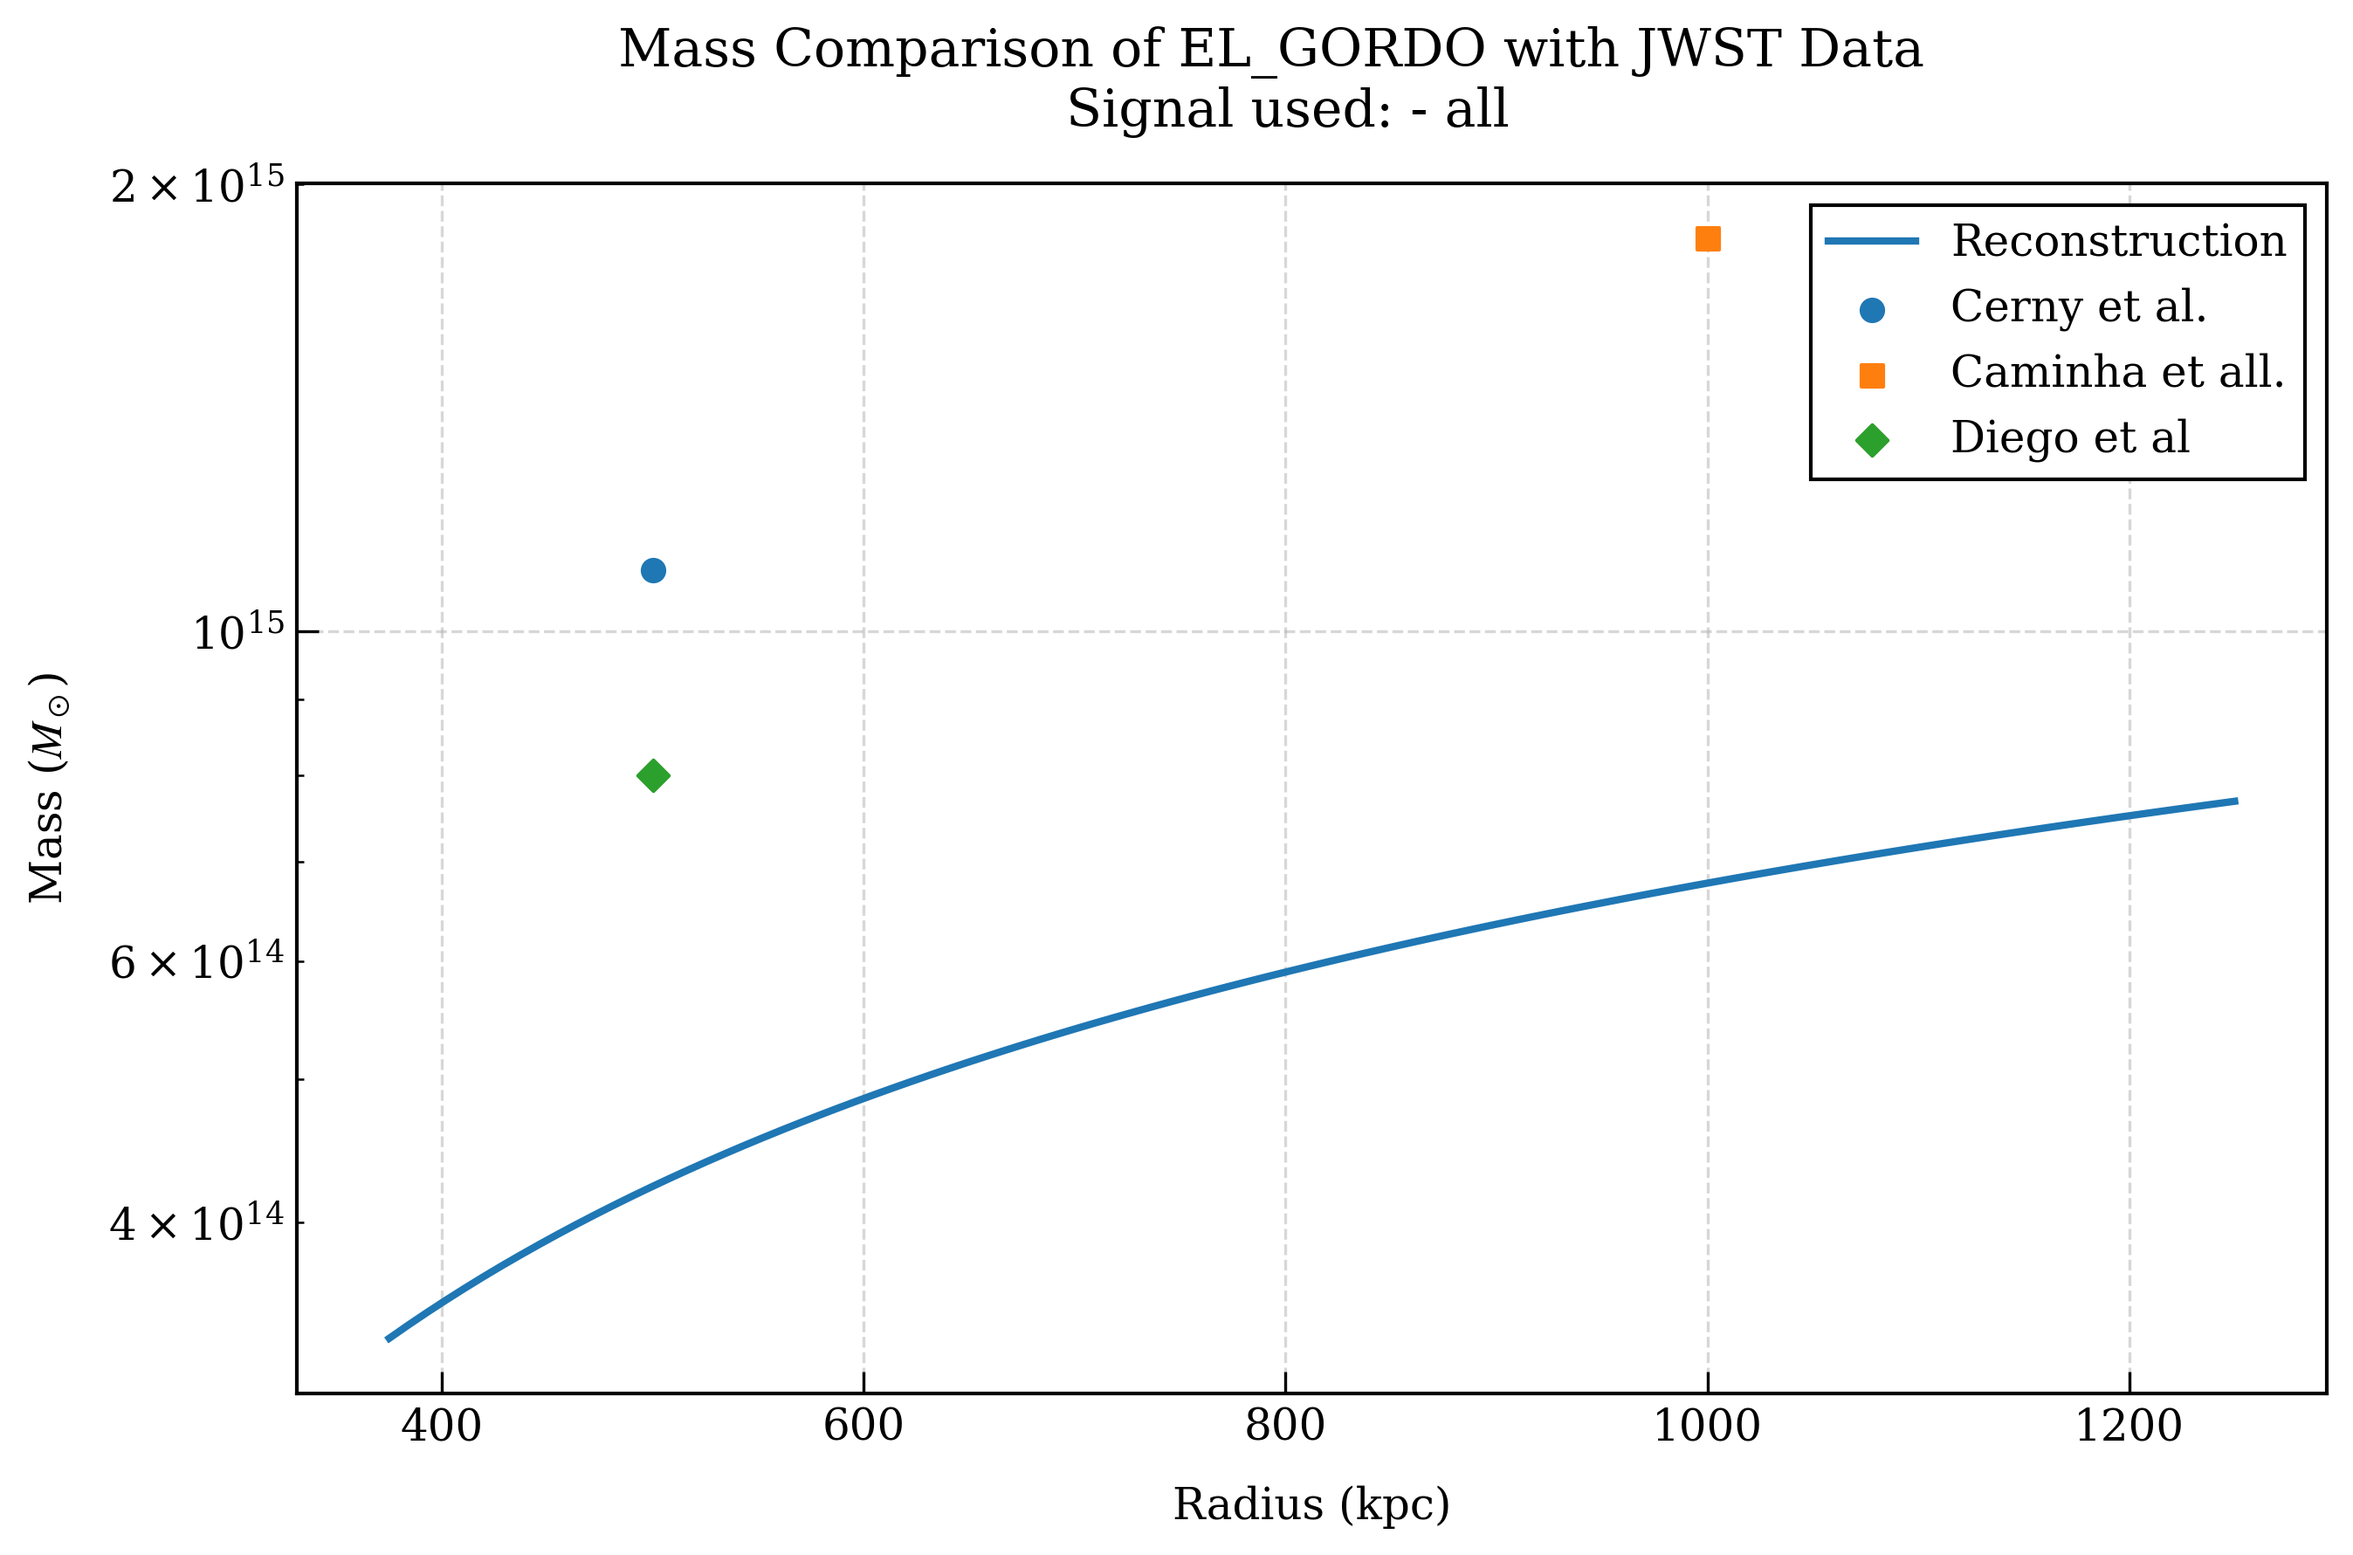
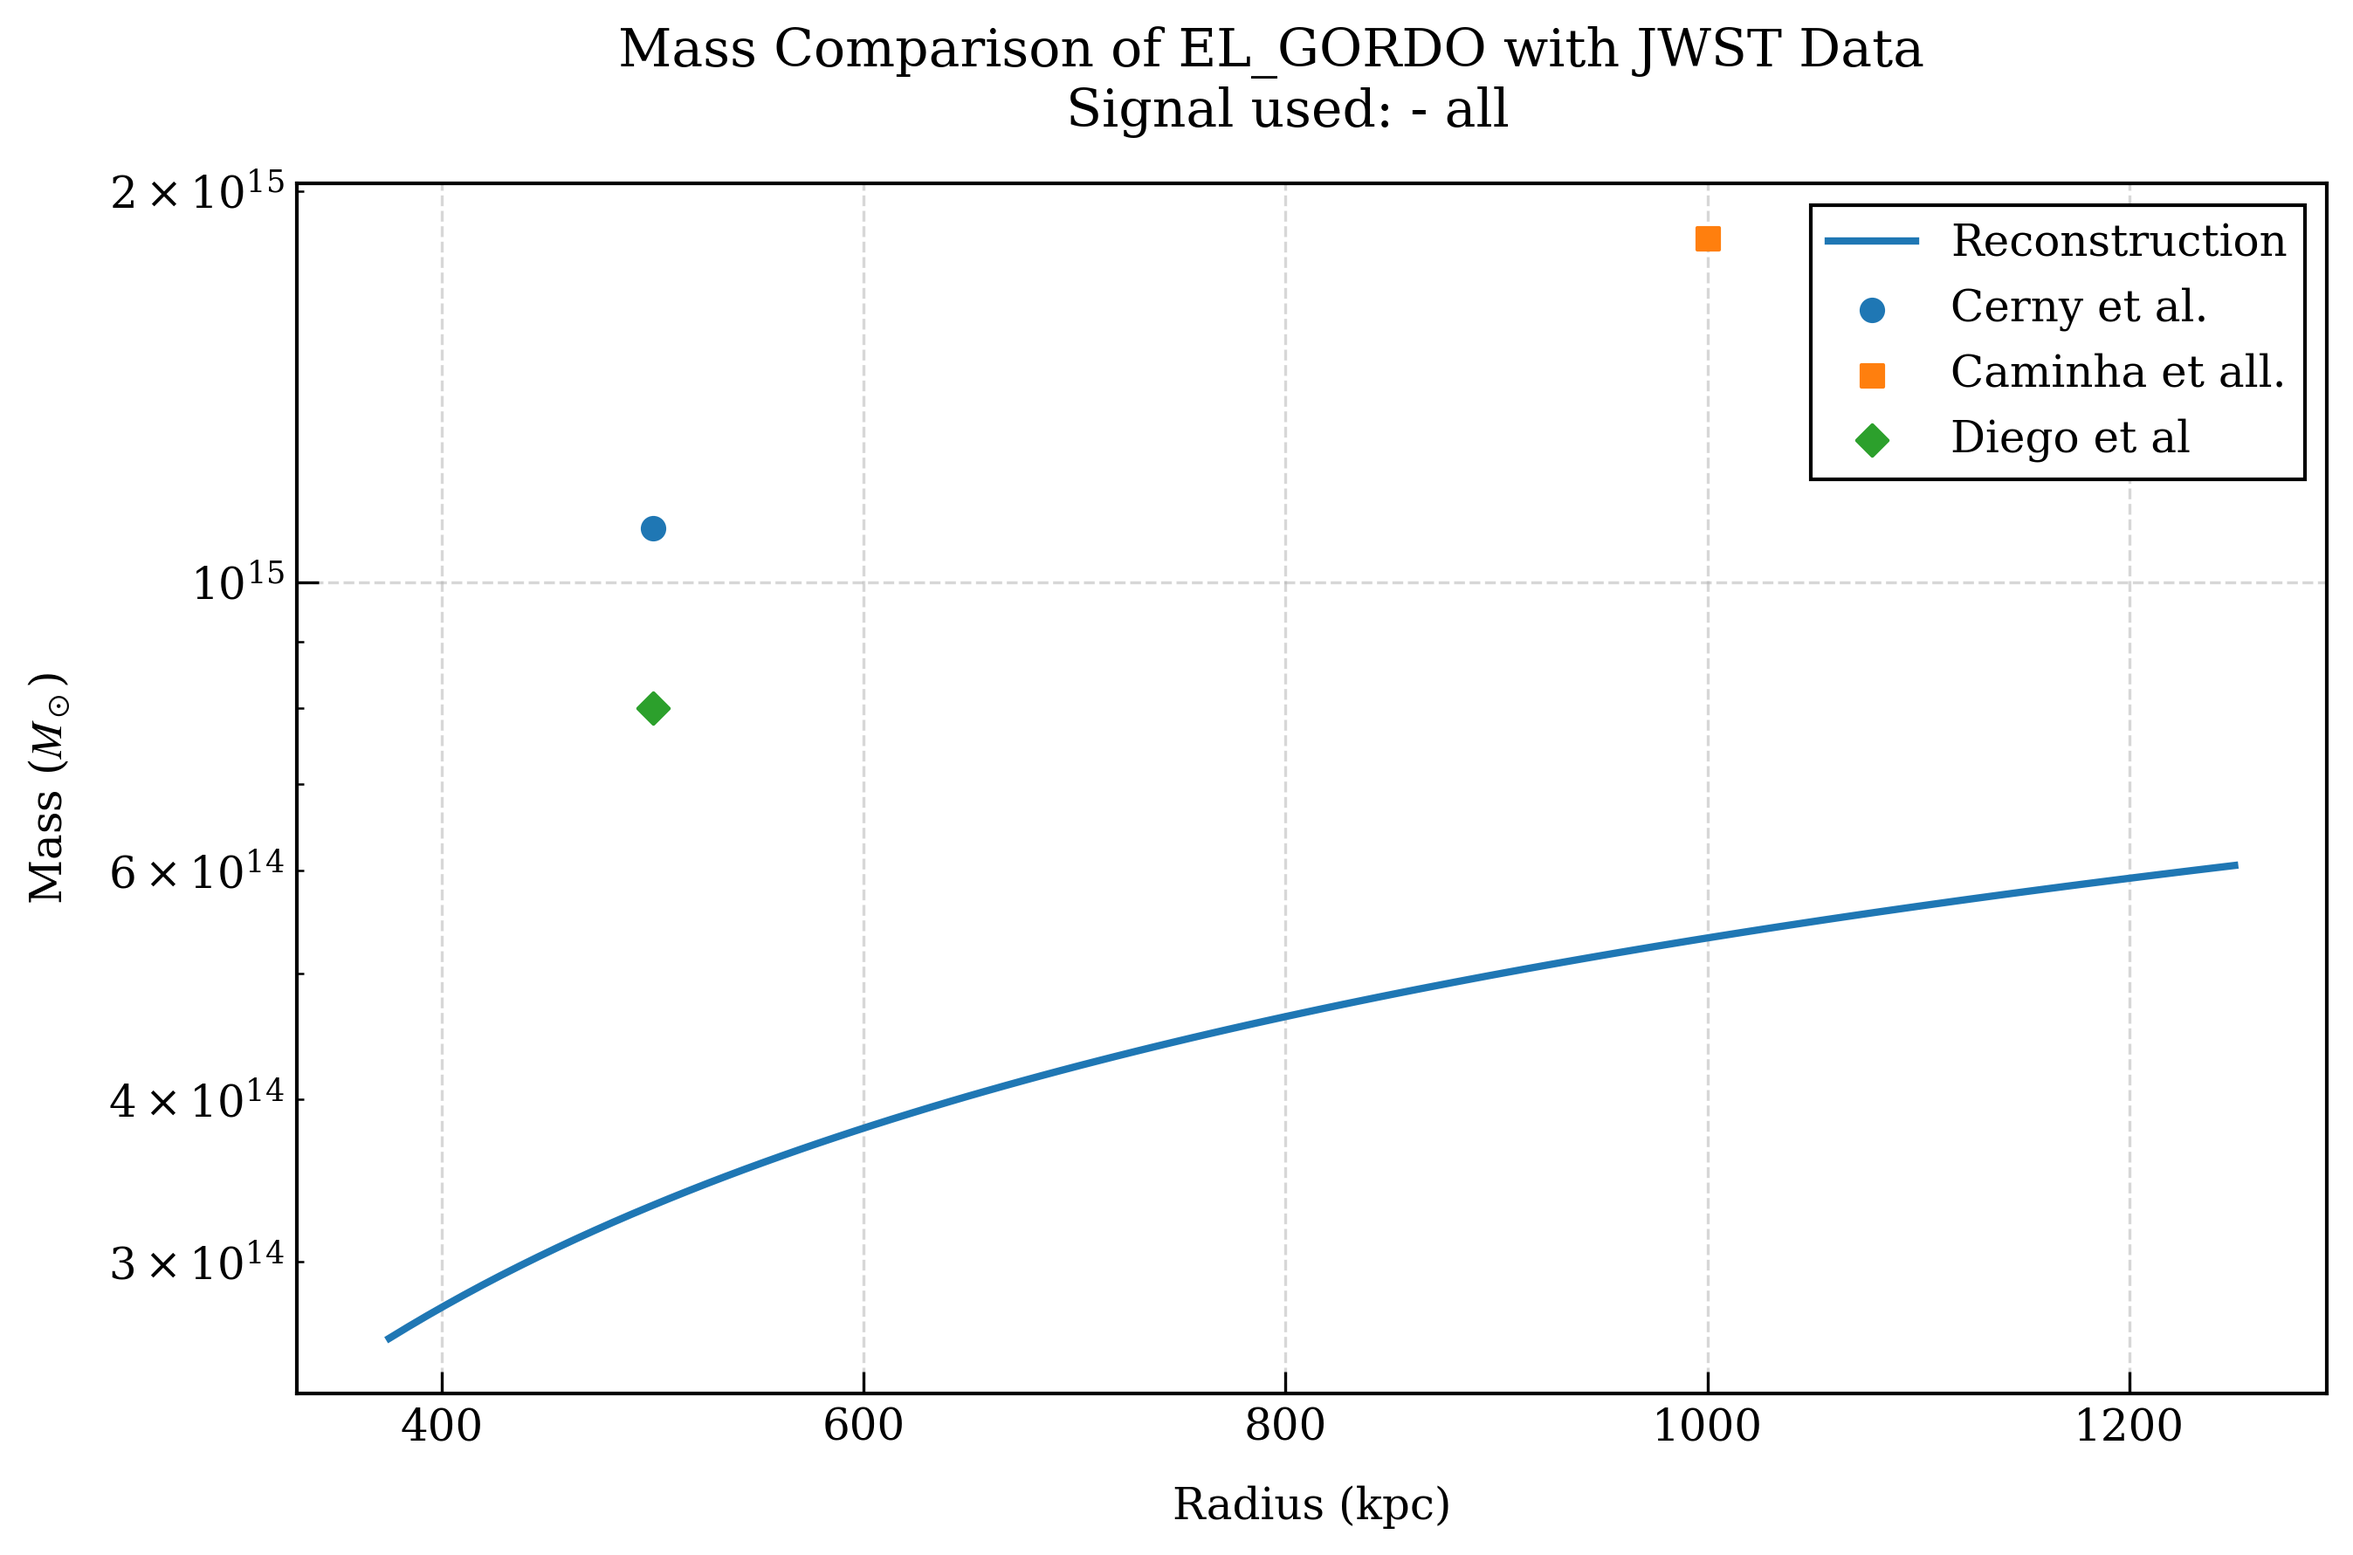
Tests of normalization on el gordo

diff --git a/read_jwst.py b/read_jwst.py
@@ -15,8 +15,9 @@ import tqdm
 # Import custom modules (ensure these are in your Python path)
 import main
 import source_obj
-# import halo_obj
+import halo_obj
 import utils
+import pipeline
 
 # Set matplotlib style
 plt.style.use('scientific_presentation.mplstyle')  # Ensure this style file exists
@@ -320,6 +321,7 @@ class JWSTPipeline:
         sigaf = np.mean([np.std(self.a * self.sources.f1), np.std(self.a * self.sources.f2)]) 
         sigag = np.mean([np.std(self.a * self.sources.g1), np.std(self.a * self.sources.g2)])
         sigf, sigg = sigaf / self.a, sigag / self.a
+        print(sigf, sigg, sigaf, sigag)
 
         # Update Source object with new uncertainties
         self.sources.sigs = sigs
@@ -335,6 +337,26 @@ class JWSTPipeline:
         """
         xmax = np.max(np.hypot(self.sources.x, self.sources.y))
         
+        # Override real lensing with simulated signal based on literature results for el gordo
+        
+        simulated_cluster_x = [110.0, 30.0] # First entry SE, second entry NW
+        simulated_cluster_y = [35.0, 120.0] 
+        simulated_cluster_mass = [5e14, 5e14]
+        simulated_lenses = halo_obj.NFW_Lens(
+            x=simulated_cluster_x, y=simulated_cluster_y, z=np.zeros_like(simulated_cluster_x), 
+            concentration=np.ones_like(simulated_cluster_x), mass=simulated_cluster_mass, 
+            redshift=self.z_cluster, chi2 = np.zeros_like(simulated_cluster_x)
+            )
+        
+        simulated_lenses.x -= self.centroid_x # Center simulated lenses around (0, 0)
+        simulated_lenses.y -= self.centroid_y
+        simulated_lenses.calculate_concentration()
+        self.lenses = simulated_lenses
+        self.sources.zero_lensing_signals()
+        self.sources.apply_noise()
+        self.sources.apply_lensing(simulated_lenses, lens_type='NFW', z_source=self.z_source)
+        
+        self.output_dir = Path(self.config['output_dir'] + "Simulated/")
         self.lenses, _ = main.fit_lensing_field(
             self.sources, xmax, flags=flags, use_flags=self.use_flags, lens_type='NFW', z_lens=self.z_cluster, z_source=self.z_source
         )
@@ -395,7 +417,7 @@ class JWSTPipeline:
                         r"$M_{<300 kpc} = %.2f \times 10^{13}\ M_\odot$" % (mass / 1e13),
                         color='black', fontsize=10, weight='bold', ha='left', va='bottom'
                     )
-
+            
             # Axes, title, legend
             ax.set_xlabel('RA Offset (arcsec)')
             ax.set_ylabel('Dec Offset (arcsec)')
@@ -406,10 +428,7 @@ class JWSTPipeline:
             plt.tight_layout()
             # plt.show()
             plt.savefig(save_name, dpi=300)
-            
-        
-        # Plot the cluster
-        # Calculate convergence map
+            plt.close(fig)
         
         X, Y, kappa = utils.calculate_kappa(
             self.lenses, extent=img_extent, lens_type='NFW', source_redshift=self.z_source
@@ -438,7 +457,9 @@ class JWSTPipeline:
         kappa_extent = [min(self.sources.x), max(self.sources.x), min(self.sources.y), max(self.sources.y)]
 
         weights_flexion = self.sources.sigf**-2
-        X, Y, kappa_flexion = utils.perform_kaiser_squire_reconstruction(self.sources, extent=kappa_extent, signal='flexion', smoothing_scale=smoothing_scale, weights=weights_flexion, apodize=True)
+        X, Y, kappa_flexion = utils.perform_kaiser_squire_reconstruction(
+            self.sources, extent=kappa_extent, signal='flexion', 
+            smoothing_scale=smoothing_scale, weights=weights_flexion, apodize=True)
         k_val = utils.estimate_mass_sheet_factor(kappa_flexion)  # Mass sheet transformation parameter
         kappa_flexion = utils.mass_sheet_transformation(kappa_flexion, k=k_val)
         peaks, masses = utils.find_peaks_and_masses(
@@ -451,7 +472,9 @@ class JWSTPipeline:
         plot_cluster([X,Y,kappa_flexion], title, save_title, peaks=peaks, masses=masses)
 
         # Do this for the shear as well
-        X, Y, kappa_shear = utils.perform_kaiser_squire_reconstruction(self.sources, extent=kappa_extent, signal='shear', smoothing_scale=smoothing_scale)
+        X, Y, kappa_shear = utils.perform_kaiser_squire_reconstruction(
+            self.sources, extent=kappa_extent, signal='shear', 
+            smoothing_scale=smoothing_scale)
         k_val = utils.estimate_mass_sheet_factor(kappa_shear)  # Mass sheet transformation parameter
         kappa_shear = utils.mass_sheet_transformation(kappa_shear, k=k_val)
         peaks, masses = utils.find_peaks_and_masses(
@@ -462,6 +485,79 @@ class JWSTPipeline:
         title = 'Kaiser-Squires Shear Reconstruction of {} with JWST'.format(self.cluster_name)
         save_title = self.output_dir / 'ks_shear_{}.png'.format(self.cluster_name)
         plot_cluster([X,Y,kappa_shear], title, save_title, peaks=peaks, masses=masses)
+        
+        # Look at the first lens, see how chi2 changes with mass
+        lens_SE = halo_obj.NFW_Lens(
+            x=self.lenses.x[0],
+            y=self.lenses.y[0],
+            z=self.z_cluster,
+            concentration=self.lenses.concentration[0],
+            mass=self.lenses.mass[0],
+            redshift=self.z_cluster,
+            chi2=self.lenses.chi2[0]
+        )
+        lens_NW = halo_obj.NFW_Lens(
+            x=self.lenses.x[1],
+            y=self.lenses.y[1],
+            z=self.z_cluster,
+            concentration=self.lenses.concentration[1],
+            mass=self.lenses.mass[1],
+            redshift=self.z_cluster,
+            chi2=self.lenses.chi2[1]
+        )
+
+        # We're going to vary the mass of this lens and see how the chi2 value changes
+        mass_values = np.logspace(13,16,1000)
+        chi2_values_SE = []
+        chi2_values_NW = []
+        for mass_value in mass_values:
+            lens_SE.mass[0] = mass_value
+            lens_NW.mass[0] = mass_value
+            chi2_SE = pipeline.update_chi2_values(self.sources, lens_SE, use_flags=self.use_flags, lens_type='NFW',z_source=self.z_source)
+            chi2_NW = pipeline.update_chi2_values(self.sources, lens_NW, use_flags=self.use_flags, lens_type='NFW',z_source=self.z_source)
+            chi2_values_SE.append(chi2_SE)
+            chi2_values_NW.append(chi2_NW)
+
+        # Plot
+        fig, axs = plt.subplots(1, 2, figsize=(12, 5))
+
+        # For SE lens
+        chi2_SE = np.array(chi2_values_SE)
+        mean_SE = np.mean(chi2_SE)
+        std_SE = np.std(chi2_SE)
+        # Mask out extreme spikes above mean + 5*std for plotting
+        mask_SE = chi2_SE < (mean_SE + 5 * std_SE)
+        axs[0].plot(mass_values[mask_SE], chi2_SE[mask_SE])
+        axs[0].set_xscale('log')
+        axs[0].set_xlabel('Mass [M_sun]')
+        axs[0].set_ylabel('Chi2')
+        axs[0].set_title('Chi2 vs Mass for SE Lens')
+        axs[0].grid()
+        # Let's add a point at the minimum value
+        min_index = np.argmin(chi2_SE)
+        axs[0].scatter(mass_values[min_index], chi2_SE[min_index], color='red')
+        # Also add a line where the actual lens is located
+        axs[0].axvline(x=self.lenses.mass[0], color='blue', linestyle='--')
+
+        # For NW lens
+        chi2_NW = np.array(chi2_values_NW)
+        mean_NW = np.mean(chi2_NW)
+        std_NW = np.std(chi2_NW)
+        mask_NW = chi2_NW < (mean_NW + 5 * std_NW)
+        axs[1].plot(mass_values[mask_NW], chi2_NW[mask_NW])
+        axs[1].set_xscale('log')
+        axs[1].set_xlabel('Mass [M_sun]')
+        axs[1].set_ylabel('Chi2')
+        axs[1].set_title('Chi2 vs Mass for NW Lens')
+        axs[1].grid()
+        # Let's add a point at the minimum value
+        min_index = np.argmin(chi2_NW)
+        axs[1].scatter(mass_values[min_index], chi2_NW[min_index], color='red')
+        # Also add a line where the actual lens is located
+        axs[1].axvline(x=self.lenses.mass[1], color='blue', linestyle='--')
+
+        plt.tight_layout()
+        plt.show()
 
     def get_image_data(self):
         """

diff --git a/utils.py b/utils.py
@@ -424,7 +424,7 @@ def calculate_kappa(lenses, extent, lens_type='SIS', source_redshift=0.8):
     xmin, xmax, ymin, ymax = extent
 
     # Pad the grid to drive kappa to zero at the edges
-    pad_val = 150
+    pad_val = 100
     xmin -= pad_val
     xmax += pad_val
     ymin -= pad_val
@@ -890,7 +890,7 @@ def compare_mass_estimates(halos, plot_name, plot_title, cluster_name='Abell_274
 
 def perform_kaiser_squire_reconstruction(sources, extent, signal='shear',
                                          smoothing_scale=5.0, resolution_scale=1.0,
-                                         weights=None, apodize=False):
+                                         weights=None, apodize=False, pad_fraction=0.2):
     """
     Kaiser-Squires Fourier inversion to reconstruct convergence (kappa) from lensing signal.
 
@@ -902,6 +902,9 @@ def perform_kaiser_squire_reconstruction(sources, extent, signal='shear',
         resolution_scale: pixels per arcsecond
         weights: 1D array of per-object weights (e.g., SNR^2), optional
         apodize: whether to apply a Tukey window to suppress edge effects
+        pad_fraction: fraction of padding to apply (default is 0.2)
+            Padding is applied symmetrically to all sides of the input arrays.
+            Expressed as a fraction of the input array size.
 
     Returns:
         X, Y: coordinate grids (2D)
@@ -960,7 +963,6 @@ def perform_kaiser_squire_reconstruction(sources, extent, signal='shear',
         S2_grid = S2_grid * apod_window
 
     # --- Padding (reflection to reduce discontinuities) ---
-    pad_fraction = 0.2
     pad = int(npixels * pad_fraction)
     S1_padded = np.pad(S1_grid, pad_width=pad, mode='reflect')
     S2_padded = np.pad(S2_grid, pad_width=pad, mode='reflect')

diff --git a/pipeline.py b/pipeline.py
@@ -18,7 +18,7 @@ Functions:
 
 import numpy as np
 import scipy.optimize as opt
-from scipy.optimize import minimize
+from scipy.optimize import minimize, minimize_scalar
 import utils  # Custom utility functions
 import minimizer  # Custom minimizer module
 import source_obj # Source object
@@ -525,13 +525,16 @@ def optimize_lens_strength(sources, lenses, use_flags, lens_type='SIS', z_source
                 z_source
             ]
 
-            result = opt.minimize(
-                chi2wrapper, guess, args=params,
-                method='L-BFGS-B',
-                bounds=[(10, 17)],
-                options={'maxiter': 1e3, 'ftol': 1e-6}
+            chi2_fn = lambda x: chi2wrapper(x, params)
+            # Robust 1-D bounded search over log10(M)
+            res = minimize_scalar(
+                chi2_fn,
+                bounds=(10.0, 17.0),
+                method="bounded",
+                options={"xatol": 1e-6, "maxiter": 2000}
             )
-            lenses.mass[i] = 10 ** result.x
+            print('Optimization reached: {}'.format(res.success))
+            lenses.mass[i] = 10 ** res.x
             lenses.calculate_concentration()
     else:
         raise ValueError('Invalid lens type - must be either "SIS" or "NFW"')
